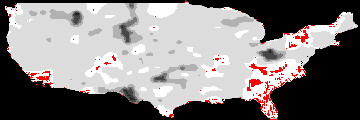
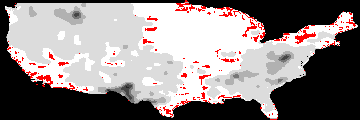
Fixing image generation

diff --git a/ImageDifferences.py b/ImageDifferences.py
@@ -90,12 +90,12 @@ horizon = 12
 #naive = np.load("Models/DiferencesNaive5.npy")
 
 #Mejor Sequia Fragmentación
-#forecasts = np.load("Models/DiferencesForecast6DroughtDataset_model_testing_1745413473.npy")
-#original = np.load("Models/DiferencesOriginal6.npy")
+forecasts = np.load("Models/DiferencesForecast6DroughtDataset_model_testing_1745413473.npy")
+original = np.load("Models/DiferencesOriginal6.npy")
 
 #Mejor Sequia Codificación
-forecasts = np.load("Models/DiferencesForecast6DroughtDataset_model_testing_1747913078.npy")
-original = np.load("Models/DiferencesOriginal6.npy")
+#forecasts = np.load("Models/DiferencesForecast6DroughtDataset_model_testing_1747913078.npy")
+#original = np.load("Models/DiferencesOriginal6.npy")
 
 #original = np.load("Models/DiferencesOriginal6.npy")
 #original = np.load("Models/DiferencesOriginal12.npy")
@@ -144,8 +144,8 @@ for i in range(len(original)):
     #cv2.imwrite("GeneratedImageComparation/DifferenceSequiaRecursiva_t+{}.png".format(i), result)
     #cv2.imwrite("GeneratedImageComparation/DifferenceSequiaDirecta_t+{}.png".format(i), result)
     #cv2.imwrite("GeneratedImageComparation/DifferenceSPIConvLSTM_t+{}.png".format(i), result)
-    #cv2.imwrite("GeneratedImageComparation/DifferenceFragmentationConvLSTM_t+{}.png".format(i), result)
-    cv2.imwrite("GeneratedImageComparation/DifferenceCodificationConvLSTM_t+{}.png".format(i), result)
+    cv2.imwrite("GeneratedImageComparation/DifferenceFragmentationConvLSTM_t+{}.png".format(i), result)
+    #cv2.imwrite("GeneratedImageComparation/DifferenceCodificationConvLSTM_t+{}.png".format(i), result)
 
 """
 for i in range(len(original)):
